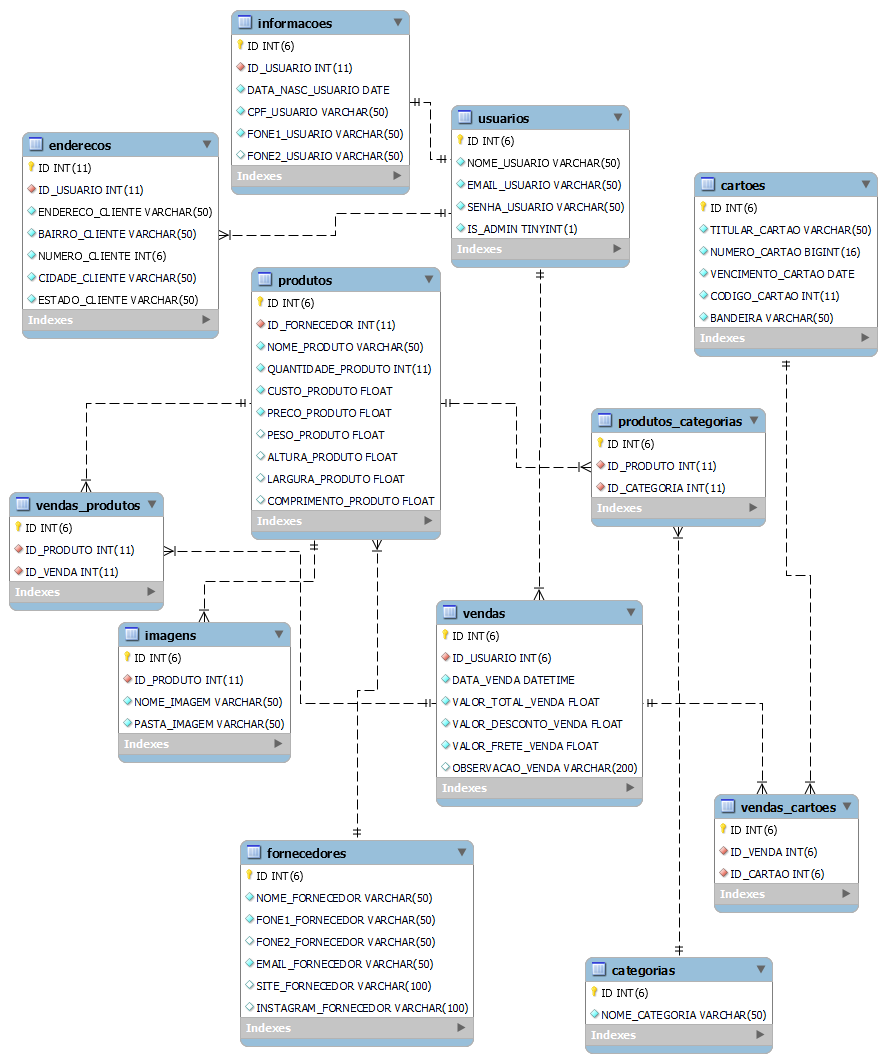
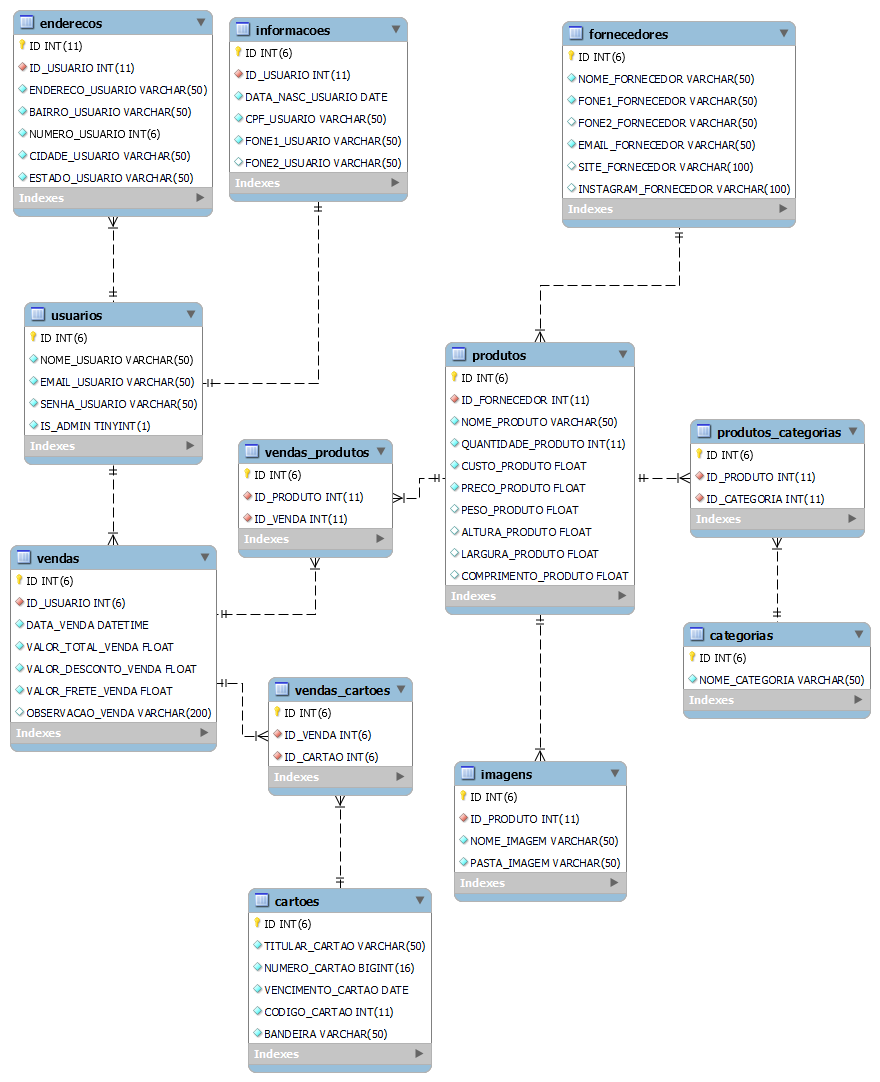
alt 09/12/2022 19:54

diff --git a/Ecommerce-CP/ficha_tecnica.html b/Ecommerce-CP/ficha_tecnica.html
@@ -17,10 +17,12 @@
         <div class="details">
             <h2>descrição</h2>
             <p>
-                Lorem, ipsum dolor sit amet consectetur adipisicing elit. Fuga mollitia iusto possimus repellat
-                reiciendis fugiat saepe pariatur, animi deserunt nisi error, ipsum reprehenderit laudantium? Ducimus
-                molestias aliquam repudiandae hic alias ipsa error est ut in rerum consequuntur numquam, nemo quo
-                commodi quod rem, iste iusto amet quasi dolores esse quia?
+                CheckPointerGamer é uma empresa para satisfazer a demanda de componentes para a indústria de consoles,
+                PCs e periféricos. Esta indústria tem um crescimento exponencial e que tende a expandir em função da
+                evolução tecnológica constante. A CheckPointerGamer mantém uma margem competitiva através da entrega
+                rápida de produtos, excelente relação com seus fornecedores e da facilidade de se adequar às suas
+                necessidades.
+                Nessa apresentação falaremos sobre banco de dados da empresa e o relacionamento de suas entidades.
             </p>
         </div>
         <div class="cards">
@@ -83,16 +85,16 @@
                             ]</ol>
                     </li>
                     <li>
-                        Clientes
+                        Informacoes
                         <ol>[
-                            id, id_usuario, data_nasc_cliente, cpf_cliente, fone1_cliente, fone2_cliente
+                            id, id_usuario, data_nasc_usuario, cpf_usuario, fone1_usuario, fone2_usuario
                             ]</ol>
                     </li>
                     <li>
                         Enderecos
                         <ol>[
-                            id, id_cliente, endereco_cliente, bairro_cliente, numero_cliente, cidade_cliente,
-                            estado_cliente
+                            id, id_usuario, endereco_usuario, bairro_usuario, numero_usuario, cidade_usuario,
+                            estado_usuario
                             ]</ol>
                     </li>
                     <li>
